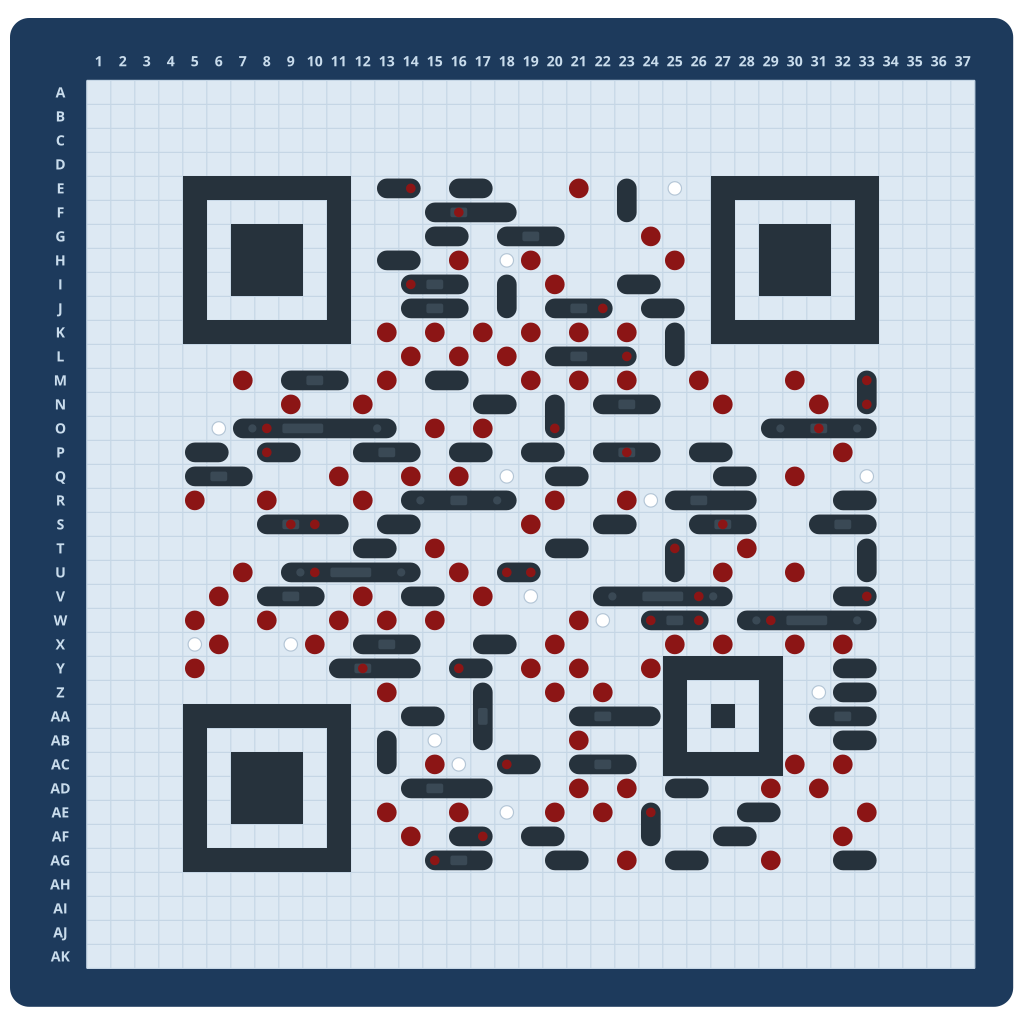
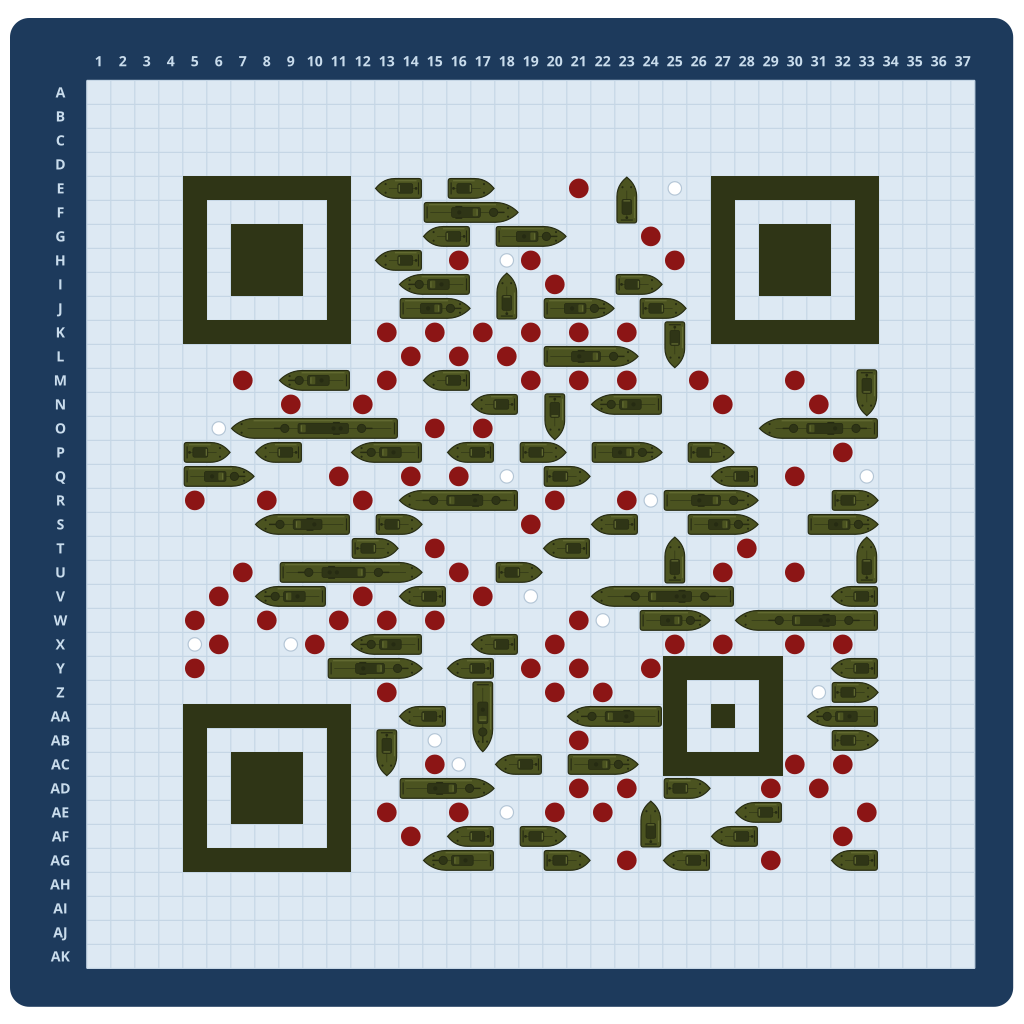
feat: draw Sea Battle ships as army-green warships
Each run of dark modules is now a warship seen from above: a squared stern,
a bow tapering to a point in its last module, pointed either way, and one
army green for every hull. Two-module boats carry a cabin and mast; longer
ships a deckhouse with a bridge and funnels, gun turrets with barrels,
anchor fittings and life rafts. All fittings are darker greens, so ships
stay dark where scanners sample.

Claude-Session: https://claude.ai/code/session_01VbyYxozHcVTyuPyhhYTroQ

Changed region(s): [[0.1562, 0.1562, 0.875, 0.875], [0.8125, 0.8125, 0.875, 0.875], [0.5938, 0.1562, 0.625, 0.2188]]

diff --git a/src/games.ts b/src/games.ts
@@ -4,7 +4,7 @@
 // letters its own lines inside its design, so the image stays square.
 import type { BitMatrix } from "qrcode";
 import { CAP, ems, emFor, lettering, round } from "./lettering";
-import { darkAt, svgOpen, unit } from "./boards";
+import { darkAt, hash, svgOpen, unit } from "./boards";
 import { fit, type Lines } from "./screens";
 
 // Whether a module is in a finder or alignment pattern, drawn as solid
@@ -128,8 +128,9 @@ export function goBoard(
 
 // Sea Battle: a plotting grid from the classic naval guessing game, in a navy
 // plastic case with numbers across the top and letters down the side. Each
-// run of the code's dark modules, across or down, is a ship's gray hull with
-// a deckhouse; a lone dark module is a red hit peg. A few light modules hold
+// run of the code's dark modules, across or down, is an army-green warship
+// seen from above, its bow pointed one way or the other, with a deckhouse,
+// gun turrets and fittings by length; a lone dark module is a red hit peg. A few light modules hold
 // white miss pegs. Under the finder and alignment patterns, solid squares,
 // so scanners find those shapes whole. Text above and below is lettered in
 // pale blue on the case.
@@ -137,14 +138,76 @@ const SEA = "#dde9f3",
   SEA_LINE = "#c5d6e5",
   CASE = "#1d3a5c",
   CASE_LABEL = "#c9dcec",
-  HULL = "#26323c",
-  DECK = "#3a4955",
+  // Army green, and the darker greens of its deck fittings and outline. All
+  // dark, so a ship reads as dark wherever scanners sample it.
+  HULL = "#4b5320",
+  FITTING = "#2f3516",
+  EDGE = "#262b12",
+  GLEAM = "#646d33",
+  // The finder and alignment patterns' squares, the fittings' green
+  PATTERN = "#2f3516",
   HIT = "#8c1515",
   MISS = "#ffffff",
   MISS_EDGE = "#b4c6d6",
   // A hull's height across, in modules: a little short of the row, so ships
   // in neighboring rows read as separate
   BEAM = 0.82;
+// A warship seen from above, along +x from 0 to `length`, a module high:
+// a squared stern, straight sides and a bow tapering to a point in the last
+// module, where its middle is still covered. Ships of two carry a small
+// cabin and mast; longer ones a deckhouse with a bridge, a turret toward
+// the bow and, from five, another toward the stern, each with its barrel
+// laid toward the nearer end.
+function vessel(length: number, seed: number) {
+  const half = BEAM / 2,
+    top = 0.5 - half,
+    bottom = 0.5 + half,
+    stern = 0.06,
+    tip = length - 0.03,
+    taper = length - Math.min(0.95, length * 0.42),
+    hull =
+      `M${stern + 0.1} ${round(top)}H${round(taper)}` +
+      `C${round(taper + 0.45)} ${round(top)} ${round(tip - 0.12)} ${round(0.5 - half * 0.35)} ${round(tip)} .5` +
+      `C${round(tip - 0.12)} ${round(0.5 + half * 0.35)} ${round(taper + 0.45)} ${round(bottom)} ${round(taper)} ${round(bottom)}` +
+      `H${stern + 0.1}Q${stern} ${round(bottom)} ${stern} ${round(bottom - 0.1)}V${round(top + 0.1)}Q${stern} ${round(top)} ${stern + 0.1} ${round(top)}z`;
+  let parts =
+    `<path d="${hull}" fill="${HULL}" stroke="${EDGE}" stroke-width=".05"/>` +
+    // Light along the upper side and a deck seam down the middle
+    `<path d="M${stern + 0.2} ${round(top + 0.09)}H${round(taper)}" stroke="${GLEAM}" stroke-width=".05"/>` +
+    `<path d="M${stern + 0.25} .5H${round(taper + 0.25)}" stroke="${EDGE}" stroke-width=".03" opacity=".7"/>` +
+    // The bow's anchor fittings and the stern's rails
+    `<circle cx="${round(tip - 0.42)}" cy="${round(0.5 - half * 0.45)}" r=".045" fill="${EDGE}"/><circle cx="${round(tip - 0.42)}" cy="${round(0.5 + half * 0.45)}" r=".045" fill="${EDGE}"/>` +
+    `<path d="M${stern + 0.12} ${round(top + 0.16)}v${round(BEAM - 0.32)}" stroke="${EDGE}" stroke-width=".05"/>`;
+  const turret = (cx: number, toward: number) =>
+    `<rect x="${round(toward > 0 ? cx : cx - 0.46)}" y=".47" width=".46" height=".06" rx=".02" fill="${EDGE}"/>` +
+    `<circle cx="${round(cx)}" cy=".5" r=".17" fill="${FITTING}" stroke="${EDGE}" stroke-width=".04"/>`;
+  if (length === 2) {
+    // A patrol boat: a cabin with its windscreen, and a mast behind it
+    parts +=
+      `<rect x=".42" y=".3" width=".62" height=".4" rx=".07" fill="${FITTING}" stroke="${EDGE}" stroke-width=".03"/>` +
+      `<path d="M.98 .36v.28" stroke="${GLEAM}" stroke-width=".05"/>` +
+      `<circle cx=".28" cy=".5" r=".06" fill="${EDGE}"/>`;
+    return parts;
+  }
+  // The deckhouse amidships, a little aft, with the bridge at its front
+  const house = Math.max(0.9, Math.min(length * 0.3, 2.4)),
+    from = round(length * 0.45 - house / 2),
+    to = round(from + house);
+  parts +=
+    `<rect x="${from}" y=".29" width="${round(house)}" height=".42" rx=".08" fill="${FITTING}" stroke="${EDGE}" stroke-width=".03"/>` +
+    `<rect x="${round(to - 0.32)}" y=".34" width=".22" height=".32" rx=".04" fill="${HULL}"/>` +
+    `<path d="M${round(to - 0.14)} .37v.26" stroke="${GLEAM}" stroke-width=".04"/>` +
+    // A funnel, or two on the longest
+    `<circle cx="${round(from + 0.32)}" cy=".5" r=".09" fill="${EDGE}"/>` +
+    (house > 1.6 ? `<circle cx="${round(from + 0.62)}" cy=".5" r=".09" fill="${EDGE}"/>` : "");
+  parts += turret(Math.min(to + 0.55, taper + 0.1), 1);
+  if (length >= 5) parts += turret(Math.max(from - 0.55, 0.7), -1);
+  // Life rafts along the sides on the longer hulls, placed by the ship's seed
+  if (length >= 4)
+    for (const side of [top + 0.14, bottom - 0.2])
+      parts += `<rect x="${round(from + 0.15 + ((seed >>> 3) % 3) * 0.1)}" y="${round(side)}" width=".3" height=".06" rx=".03" fill="${EDGE}"/>`;
+  return parts;
+}
 // A row's letters: A to Z, then AA to AZ, BA and on
 const rowName = (i: number) =>
   (i < 26 ? "" : String.fromCharCode(64 + Math.floor(i / 26))) + String.fromCharCode(65 + (i % 26));
@@ -195,37 +258,23 @@ export function seaBattle(
   const taken = new Set<number>(),
     free = (x: number, y: number) => dark(x, y) && !joined(x, y) && !taken.has(y * n + x);
   let hulls = "",
-    decks = "",
     hits = "",
     squares = "",
     misses = "";
   const ship = (x: number, y: number, length: number, across: boolean) => {
+    // Drawn along +x in a box `length` long and a module high, then turned
+    // into place, bow first one way or the other
     const X = ox + x,
       Y = oy + y,
-      inset = (1 - BEAM) / 2,
-      [w, h] = across ? [length - 2 * inset, BEAM] : [BEAM, length - 2 * inset];
-    hulls += `<rect x="${round(X + inset)}" y="${round(Y + inset)}" width="${round(w)}" height="${round(h)}" rx="${BEAM / 2}"/>`;
-    // A deckhouse amidships on ships of three or more, and a gun turret
-    // toward each end on the longest; all dark, so the hull still reads as
-    // dark where scanners sample
-    if (length >= 3) {
-      const house = Math.max(1, Math.floor(length / 3)),
-        start = Math.floor((length - house) / 2);
-      decks += across
-        ? `<rect x="${round(X + start + 0.15)}" y="${round(Y + 0.3)}" width="${round(house - 0.3)}" height=".4" rx=".08"/>`
-        : `<rect x="${round(X + 0.3)}" y="${round(Y + start + 0.15)}" width=".4" height="${round(house - 0.3)}" rx=".08"/>`;
-      if (length >= 5)
-        for (const at of [0.9, length - 0.9])
-          decks += across
-            ? `<circle cx="${round(X + at)}" cy="${Y + 0.5}" r=".17"/>`
-            : `<circle cx="${X + 0.5}" cy="${round(Y + at)}" r=".17"/>`;
-    }
-    // Now and then a red hit peg on a hull
-    for (let i = 0; i < length; i++) {
-      const [hx, hy] = across ? [x + i, y] : [x, y + i];
-      if (unit(hx, hy, 83) < 0.12)
-        hits += `<circle cx="${ox + hx + 0.5}" cy="${oy + hy + 0.5}" r=".2"/>`;
-    }
+      forward = hash(x, y, 85) % 2 === 0,
+      place = across
+        ? forward
+          ? `translate(${X} ${Y})`
+          : `translate(${X + length} ${Y}) scale(-1 1)`
+        : forward
+          ? `translate(${X + 1} ${Y}) rotate(90)`
+          : `translate(${X + 1} ${Y + length}) rotate(90) scale(-1 1)`;
+    hulls += `<g transform="${place}">${vessel(length, hash(x, y, 86))}</g>`;
   };
   for (let y = 0; y < n; y++)
     for (let x = 0; x < n; x++) {
@@ -261,5 +310,5 @@ export function seaBattle(
     if (lines.below)
       text += lettering(lines.below, em, sx + q / 2, sy + q + (row + CAP * em) / 2 - 0.2);
   }
-  return `${svgOpen(size, "white")}<g transform="translate(${left} ${top}) scale(${k})"><rect width="${width}" height="${height}" rx=".8" fill="${CASE}"/><rect x="${sx}" y="${sy}" width="${q}" height="${q}" fill="${SEA}"/><path d="${grid}" stroke="${SEA_LINE}" stroke-width=".05"/><g fill="${CASE_LABEL}">${labels}${text}</g><g fill="${MISS}" stroke="${MISS_EDGE}" stroke-width=".05">${misses}</g><path d="${squares}" fill="${HULL}" shape-rendering="crispEdges"/><g fill="${HULL}">${hulls}</g><g fill="${DECK}">${decks}</g><g fill="${HIT}">${hits}</g></g></svg>`;
+  return `${svgOpen(size, "white")}<g transform="translate(${left} ${top}) scale(${k})"><rect width="${width}" height="${height}" rx=".8" fill="${CASE}"/><rect x="${sx}" y="${sy}" width="${q}" height="${q}" fill="${SEA}"/><path d="${grid}" stroke="${SEA_LINE}" stroke-width=".05"/><g fill="${CASE_LABEL}">${labels}${text}</g><g fill="${MISS}" stroke="${MISS_EDGE}" stroke-width=".05">${misses}</g><path d="${squares}" fill="${PATTERN}" shape-rendering="crispEdges"/>${hulls}<g fill="${HIT}">${hits}</g></g></svg>`;
 }

diff --git a/src/style-info.ts b/src/style-info.ts
@@ -201,7 +201,7 @@ export const STYLE_DETAILS: Record<QrStyle, { description: string; example: stri
   },
   "sea-battle": {
     description:
-      "A naval guessing game's plotting grid, with numbers and letters along the edges: the code's dark squares are ships' hulls and red hit pegs, with a few white misses.",
+      "A naval guessing game's plotting grid, with numbers and letters along the edges: the code's dark squares are army-green warships with pointed bows and red hit pegs, with a few white misses.",
     example: "https://www.cmu.edu/",
   },
   "carnival-tent": {

diff --git a/docs/styles.html b/docs/styles.html
@@ -491,8 +491,8 @@
               <h3>Sea Battle</h3>
               <p
                 >A naval guessing game's plotting grid, with numbers and letters along the edges:
-                the code's dark squares are ships' hulls and red hit pegs, with a few white
-                misses.</p
+                the code's dark squares are army-green warships with pointed bows and red hit pegs,
+                with a few white misses.</p
               >
               <p
                 ><a class="cta" href="builder.html?style=sea-battle">Build With Sea Battle</a></p
